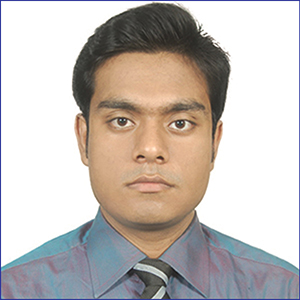
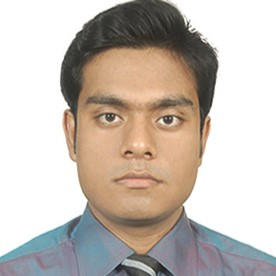
add commit

Changed region(s): [[0.0, 0.0, 1.0, 1.0], [0.5217, 0.058, 0.6087, 0.1159], [0.6087, 0.1739, 0.6377, 0.2029]]

diff --git a/css/about.css b/css/about.css
@@ -1,0 +1,13 @@
+.image_col{
+    margin-left: 25px;
+    border-radius: 50%;
+    border: 2px solid purple;
+    background-color: aliceblue;
+}
+.board{
+    text-align: center;
+    text-transform:uppercase;
+    /* text-decoration: underline; */
+    color: crimson;
+    margin-bottom: 30px;
+}

diff --git a/about.php b/about.php
@@ -1,0 +1,105 @@
+<!DOCTYPE html>
+<html lang="en">
+<head>
+    <meta charset="UTF-8">
+    <meta name="viewport" content="width=device-width, initial-scale=1.0">
+    <title>Pro Designer World</title>
+    
+    <link rel="Icon" type="Images/x-icon" href="images/logo.png">
+
+    <link rel="stylesheet" href="css/bootstrap.css">
+    <link rel="stylesheet" href="css/style.css">
+    <script src="https://cdn.jsdelivr.net/npm/@popperjs/core@2.9.2/dist/umd/popper.min.js" integrity="sha384-IQsoLXl5PILFhosVNubq5LC7Qb9DXgDA9i+tQ8Zj3iwWAwPtgFTxbJ8NT4GN1R8p" crossorigin="anonymous"></script>
+    <script src="https://cdn.jsdelivr.net/npm/bootstrap@5.0.2/dist/js/bootstrap.min.js" integrity="sha384-cVKIPhGWiC2Al4u+LWgxfKTRIcfu0JTxR+EQDz/bgldoEyl4H0zUF0QKbrJ0EcQF" crossorigin="anonymous"></script>
+    <link rel="preconnect" href="https://fonts.googleapis.com">
+    <link rel="preconnect" href="https://fonts.gstatic.com" crossorigin>
+    <link href="https://fonts.googleapis.com/css2?family=Josefin+Sans&display=swap" rel="stylesheet">
+    <link rel="stylesheet" href="css/about.css">
+
+</head>
+
+<body class="m-3 mt-4">
+
+    <nav class="navbar navbar-expand-lg navbar-light bg-dark-subtle ">
+    <div class="container-fluid">
+        <a class="navbar-brand" href="#">Pro Designer World</a>
+        <button class="navbar-toggler" type="button" data-bs-toggle="collapse" data-bs-target="#navbarSupportedContent" aria-controls="navbarSupportedContent" aria-expanded="false" aria-label="Toggle navigation">
+        <span class="navbar-toggler-icon"></span>
+        </button>
+        <div class="collapse navbar-collapse" id="navbarSupportedContent">
+        <ul class="navbar-nav me-auto mb-2 mb-lg-0 m-md-auto ">
+            <li class="nav-item">
+            <a class="nav-link active" aria-current="page" href="index.php">Home</a>
+            </li>
+            <li class="nav-item">
+            <a class="nav-link" href="#">Designs</a>
+            </li>
+            <li class="nav-item">
+            <a class="nav-link" href="about.php">About</a>
+            </li>
+            <li class="nav-item">
+            <a class="nav-link" href="#">contacts</a>
+            </li>
+            
+        </ul>
+        <form class="d-flex">
+            <input class="form-control me-2" type="search" placeholder="Search" aria-label="Search">
+            <button class="btn btn-outline-success" type="submit">Search</button>
+        </form>
+        </div>
+    </div>
+</nav>
+<div>
+    <h2>Our jouny</h2>
+    <div class="board ">
+        <h2>board Of Directors</h2>
+    </div>
+    <div class="row col-12">
+        <div class="col-4 col-xs-12 col-sm-4 h-300">
+                        <div class="card">
+                            <div class="card-header">
+                                <img src="images/pic/Nishinath 5   5(1).jpg" alt="" class="image_col">
+                            </div>
+                            <div class="card-body">
+                                <h1>Nishhinath Chondro Gain</h1>
+                                <a href="">Read More</a>
+                            </div>
+                        </div>
+                    </div>
+        </div>
+        <div class="col-4 col-xs-12 col-sm-4 h-300">
+                        <div class="card">
+                            <div class="card-header">
+                                <img src="images/pic/Nishinath 5   5(1).jpg" alt="" class="image_col">
+                            </div>
+                            <div class="card-body">
+                                <h1>Nishhinath Chondro Gain</h1>
+                                <a href="">Read More</a>
+                            </div>
+                        </div>
+                    </div>
+        </div>
+        <div class="col-4 col-xs-12 col-sm-4 h-300">
+                        <div class="card">
+                            <div class="card-header">
+                                <img src="images/pic/Nishinath 5   5(1).jpg" alt="" class="image_col">
+                            </div>
+                            <div class="card-body">
+                                <h1>Nishhinath Chondro Gain</h1>
+                                <a href="">Read More</a>
+                            </div>
+                        </div>
+                    </div>
+        </div>
+        
+    </div>
+
+</div>
+
+
+
+
+
+
+
+</body>
